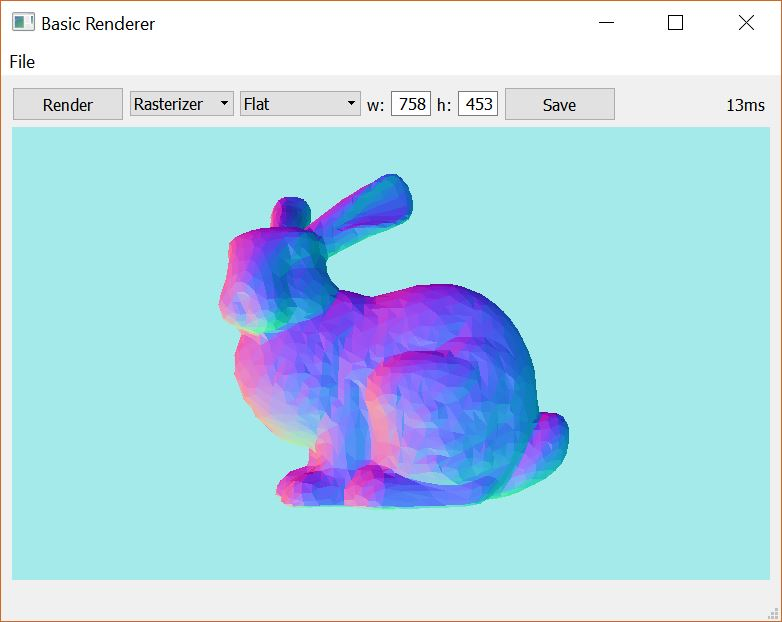
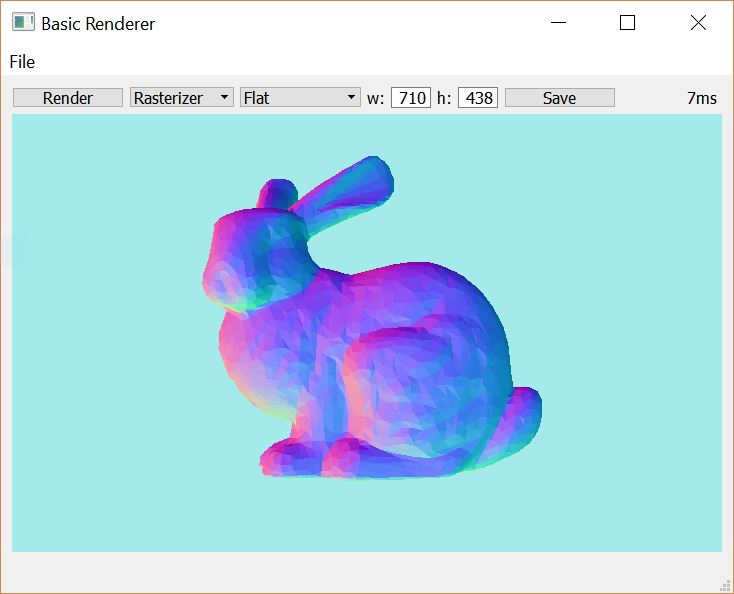
updated UI

diff --git a/QtGUI/ui_mainwindow.h b/QtGUI/ui_mainwindow.h
@@ -97,16 +97,22 @@ public:
         horizontalLayout->setObjectName(QStringLiteral("horizontalLayout"));
         renderButton = new QPushButton(centralWidget);
         renderButton->setObjectName(QStringLiteral("renderButton"));
+        renderButton->setMinimumSize(QSize(0, 21));
+        renderButton->setMaximumSize(QSize(16777215, 21));
 
         horizontalLayout->addWidget(renderButton);
 
         rendererComboBox = new QComboBox(centralWidget);
         rendererComboBox->setObjectName(QStringLiteral("rendererComboBox"));
+        rendererComboBox->setMinimumSize(QSize(0, 20));
+        rendererComboBox->setMaximumSize(QSize(16777215, 20));
 
         horizontalLayout->addWidget(rendererComboBox);
 
         shadingComboBox = new QComboBox(centralWidget);
         shadingComboBox->setObjectName(QStringLiteral("shadingComboBox"));
+        shadingComboBox->setMinimumSize(QSize(0, 20));
+        shadingComboBox->setMaximumSize(QSize(16777215, 20));
 
         horizontalLayout->addWidget(shadingComboBox);
 
@@ -123,8 +129,8 @@ public:
         sizePolicy3.setVerticalStretch(0);
         sizePolicy3.setHeightForWidth(widthEdit->sizePolicy().hasHeightForWidth());
         widthEdit->setSizePolicy(sizePolicy3);
-        widthEdit->setMinimumSize(QSize(30, 0));
-        widthEdit->setMaximumSize(QSize(40, 16777215));
+        widthEdit->setMinimumSize(QSize(30, 21));
+        widthEdit->setMaximumSize(QSize(40, 21));
         widthEdit->setAlignment(Qt::AlignRight|Qt::AlignTrailing|Qt::AlignVCenter);
 
         horizontalLayout->addWidget(widthEdit);
@@ -139,14 +145,16 @@ public:
         heightEdit->setObjectName(QStringLiteral("heightEdit"));
         sizePolicy3.setHeightForWidth(heightEdit->sizePolicy().hasHeightForWidth());
         heightEdit->setSizePolicy(sizePolicy3);
-        heightEdit->setMinimumSize(QSize(30, 0));
-        heightEdit->setMaximumSize(QSize(40, 16777215));
+        heightEdit->setMinimumSize(QSize(30, 21));
+        heightEdit->setMaximumSize(QSize(40, 21));
         heightEdit->setAlignment(Qt::AlignRight|Qt::AlignTrailing|Qt::AlignVCenter);
 
         horizontalLayout->addWidget(heightEdit);
 
         saveButton = new QPushButton(centralWidget);
         saveButton->setObjectName(QStringLiteral("saveButton"));
+        saveButton->setMinimumSize(QSize(0, 21));
+        saveButton->setMaximumSize(QSize(16777215, 21));
 
         horizontalLayout->addWidget(saveButton);
 
@@ -167,7 +175,7 @@ public:
         MainWindow->setCentralWidget(centralWidget);
         menuBar = new QMenuBar(MainWindow);
         menuBar->setObjectName(QStringLiteral("menuBar"));
-        menuBar->setGeometry(QRect(0, 0, 600, 21));
+        menuBar->setGeometry(QRect(0, 0, 600, 17));
         menuBoh = new QMenu(menuBar);
         menuBoh->setObjectName(QStringLiteral("menuBoh"));
         MainWindow->setMenuBar(menuBar);
